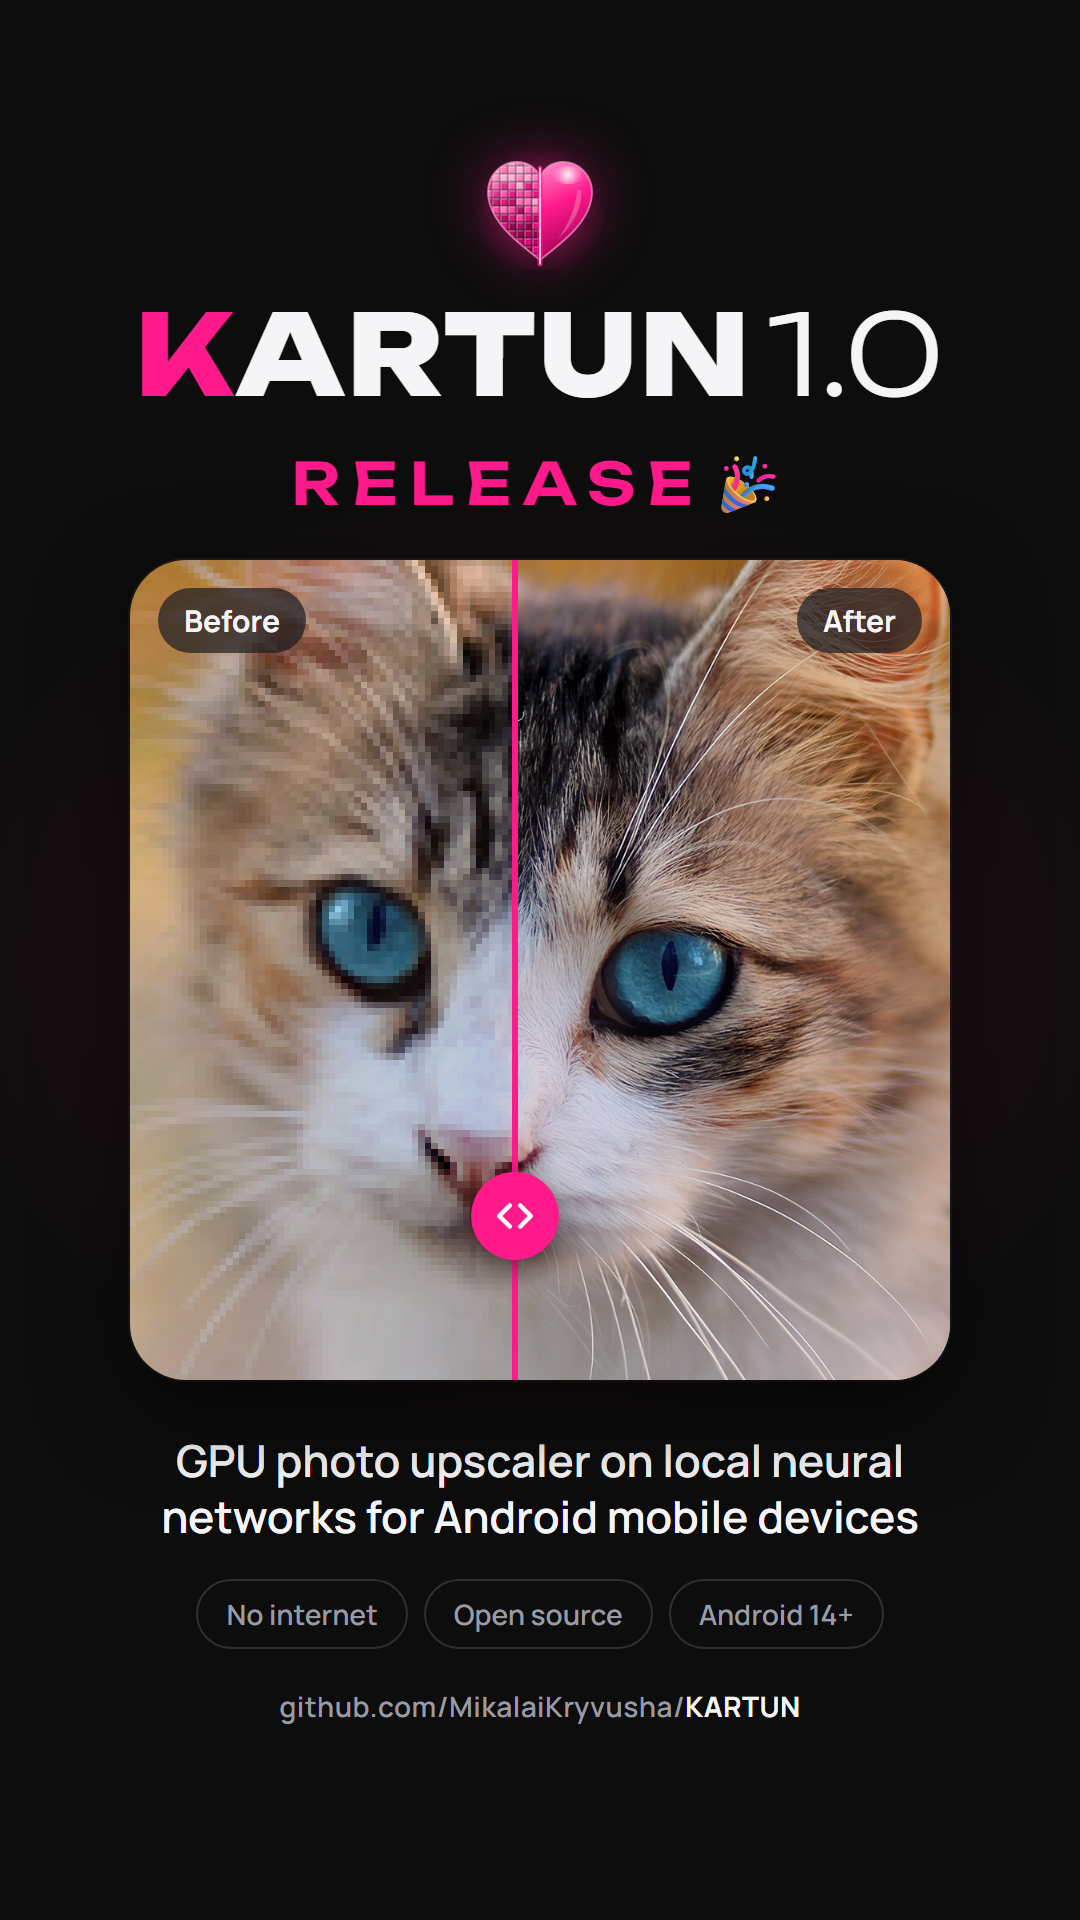
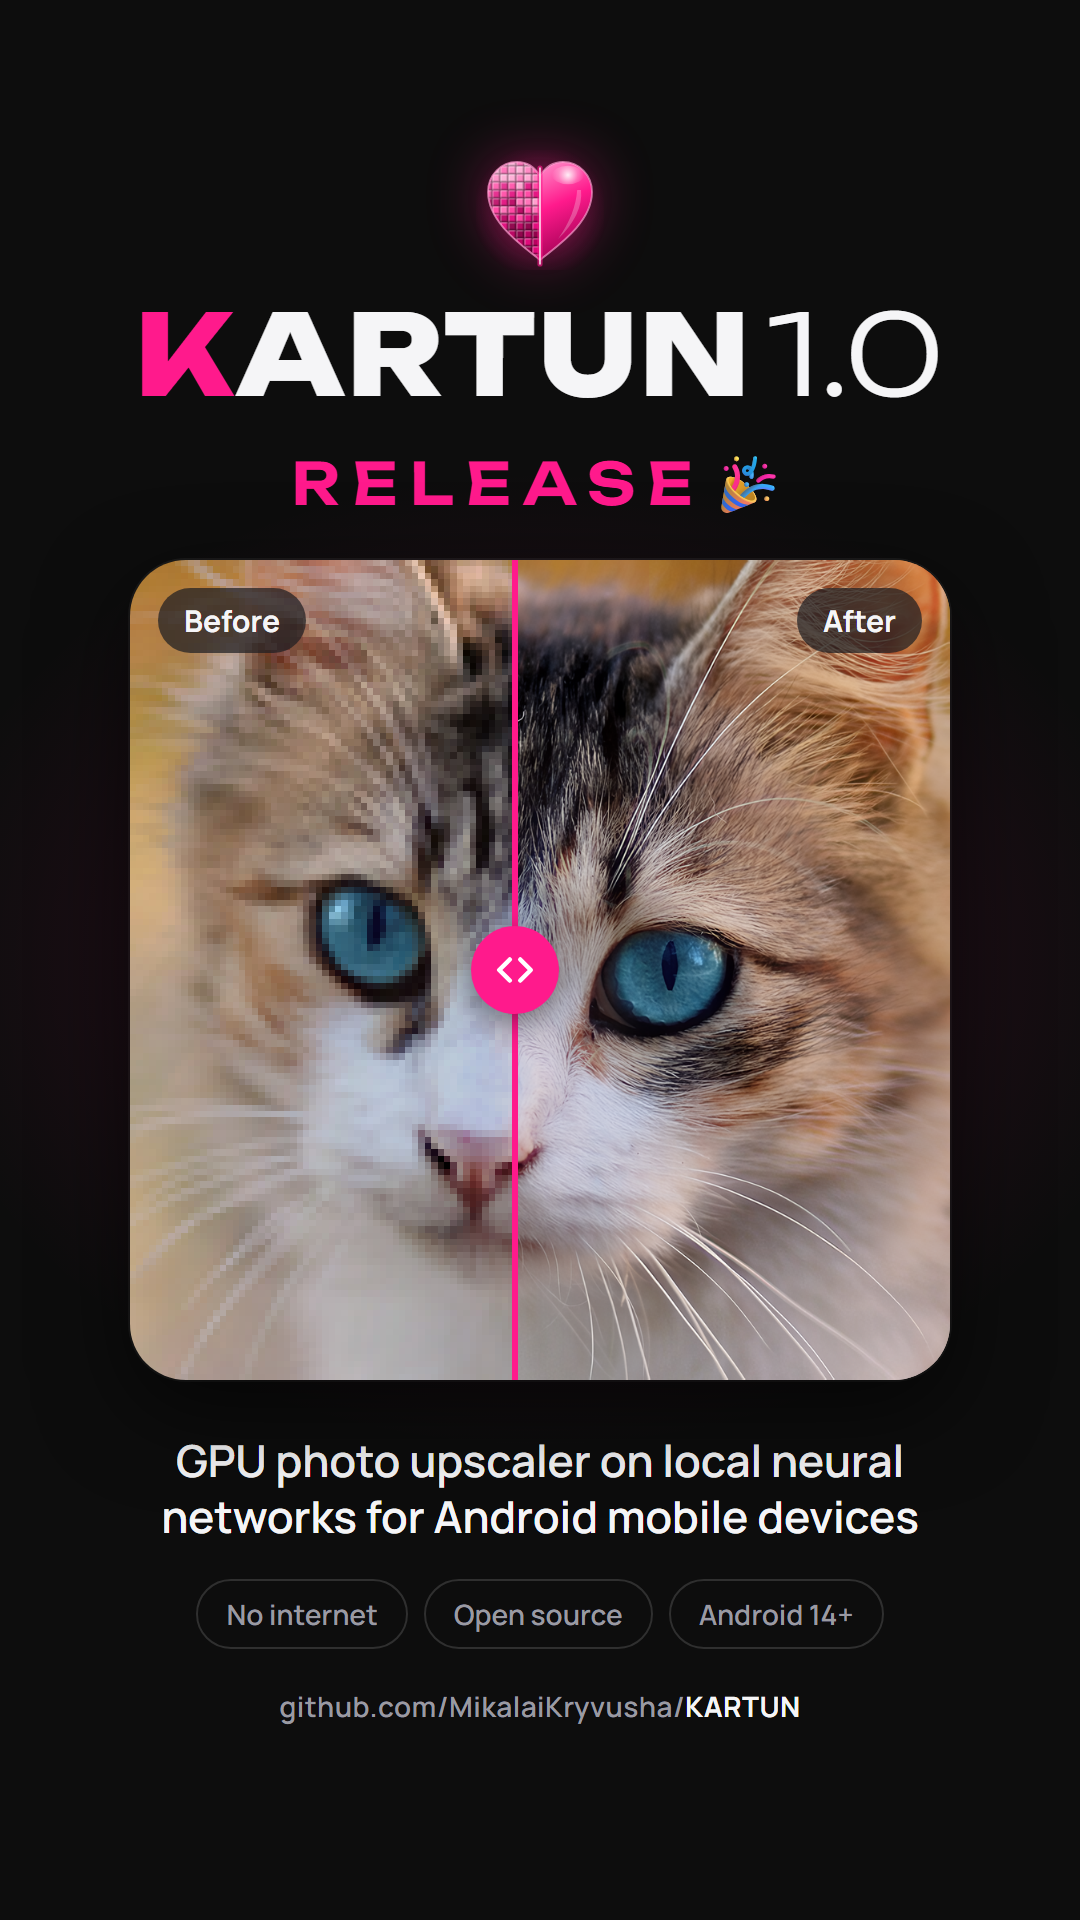
docs: story 1.0 - the before/after knob at mid-height (the owner)

Changed region(s): [[0.4278, 0.5938, 0.5194, 0.6875], [0.4278, 0.4688, 0.5194, 0.5625]]

diff --git a/design/promo/story-1.0.html b/design/promo/story-1.0.html
@@ -36,7 +36,7 @@
   /* the divider between the cat's eyes: the left eye is pixels, the right one is UltraSharp */
   .compare .after { clip-path: inset(0 0 0 var(--split)); image-rendering: auto; }
   .line { position: absolute; top: 0; bottom: 0; left: var(--split); width: 6px; margin-left: -3px; background: var(--pink); }
-  .knob { position: absolute; left: var(--split); top: 80%; width: 88px; height: 88px; margin: -44px 0 0 -44px; border-radius: 50%;
+  .knob { position: absolute; left: var(--split); top: 50%; width: 88px; height: 88px; margin: -44px 0 0 -44px; border-radius: 50%;
           background: var(--pink); box-shadow: 0 8px 30px rgba(0, 0, 0, 0.45); display: flex; align-items: center; justify-content: center; }
   .tag { position: absolute; top: 28px; padding: 12px 26px; border-radius: 40px; font-weight: 700; font-size: 30px;
          background: rgba(30, 30, 34, 0.72); color: var(--text); }
